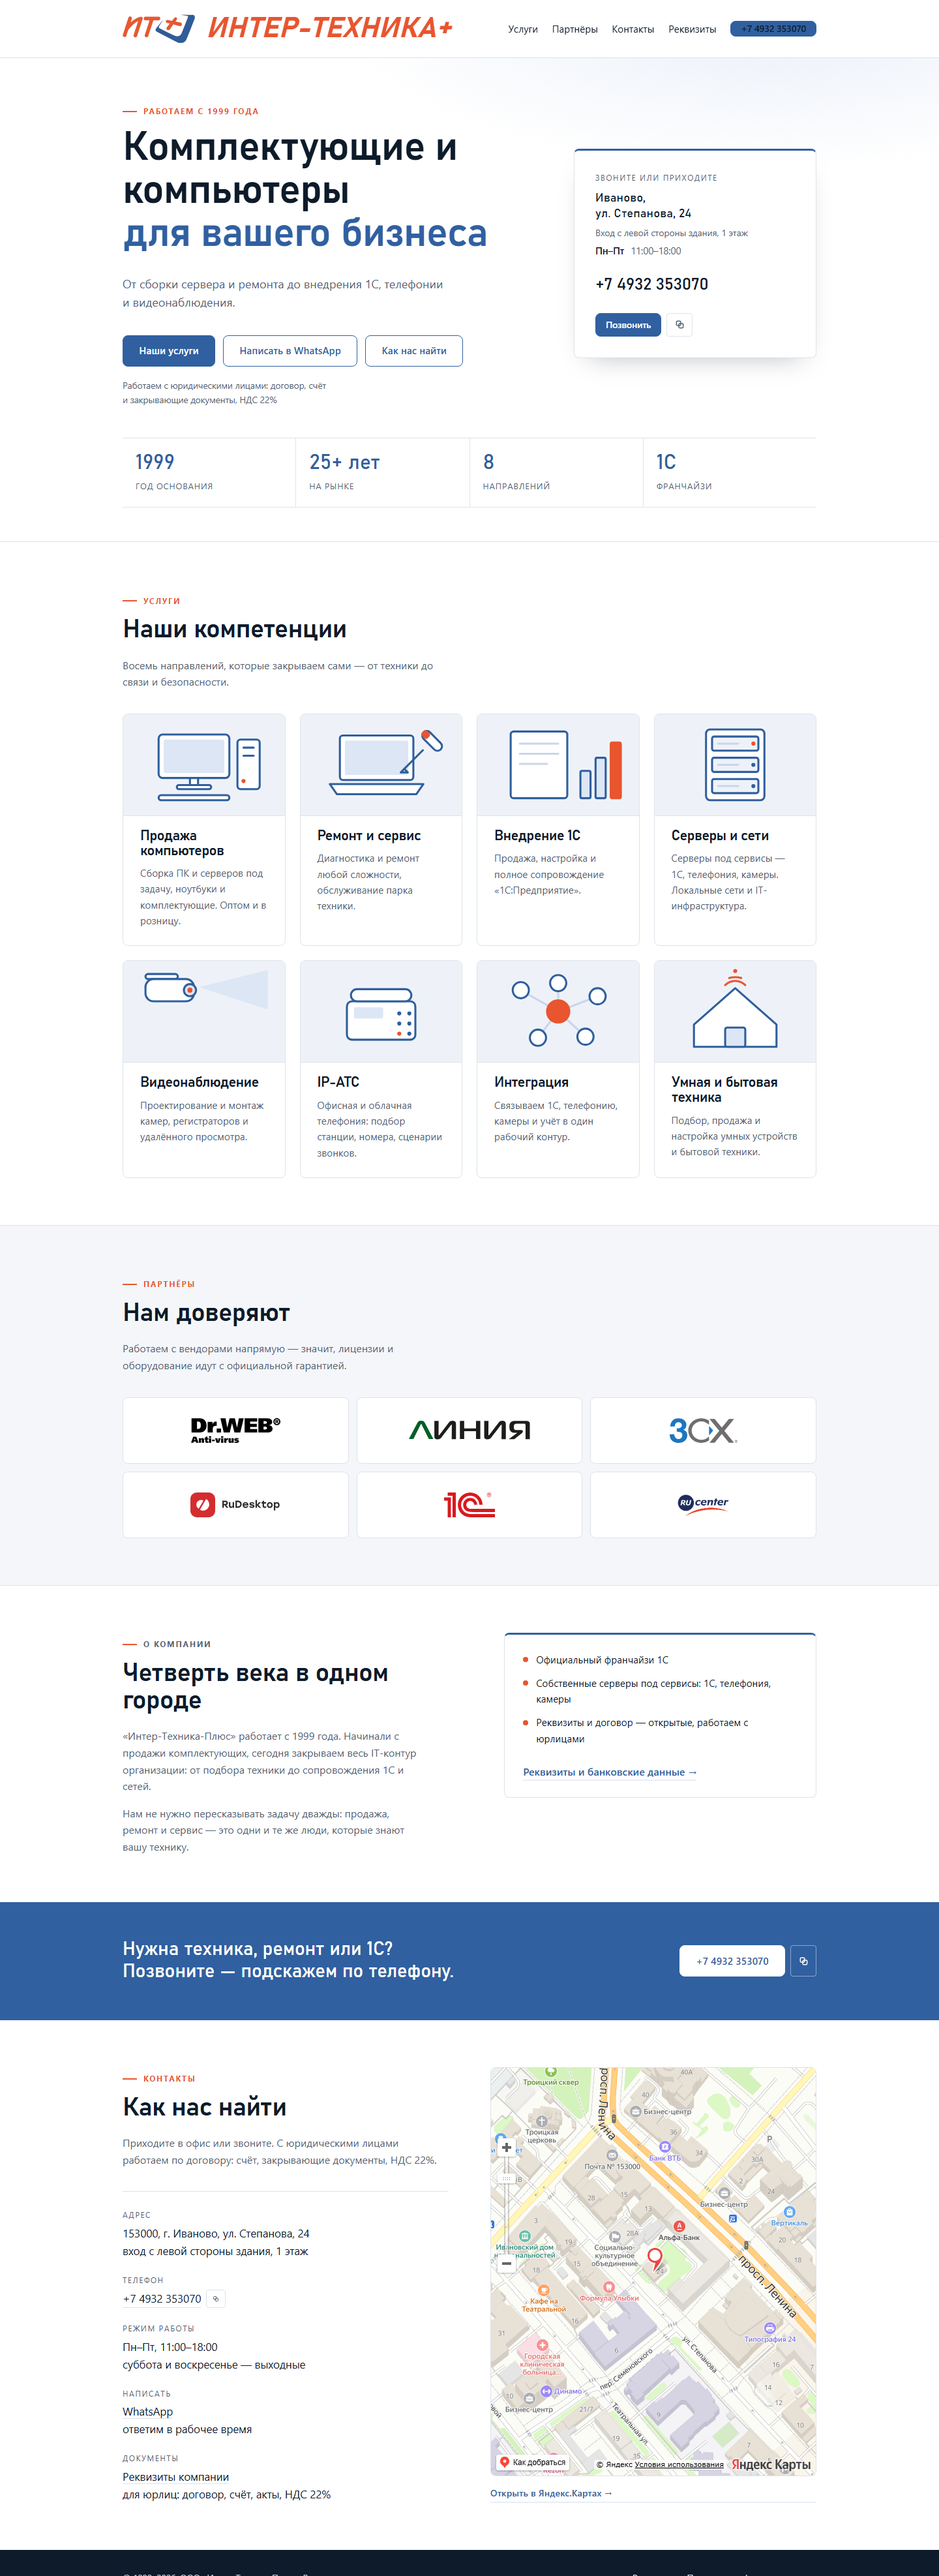
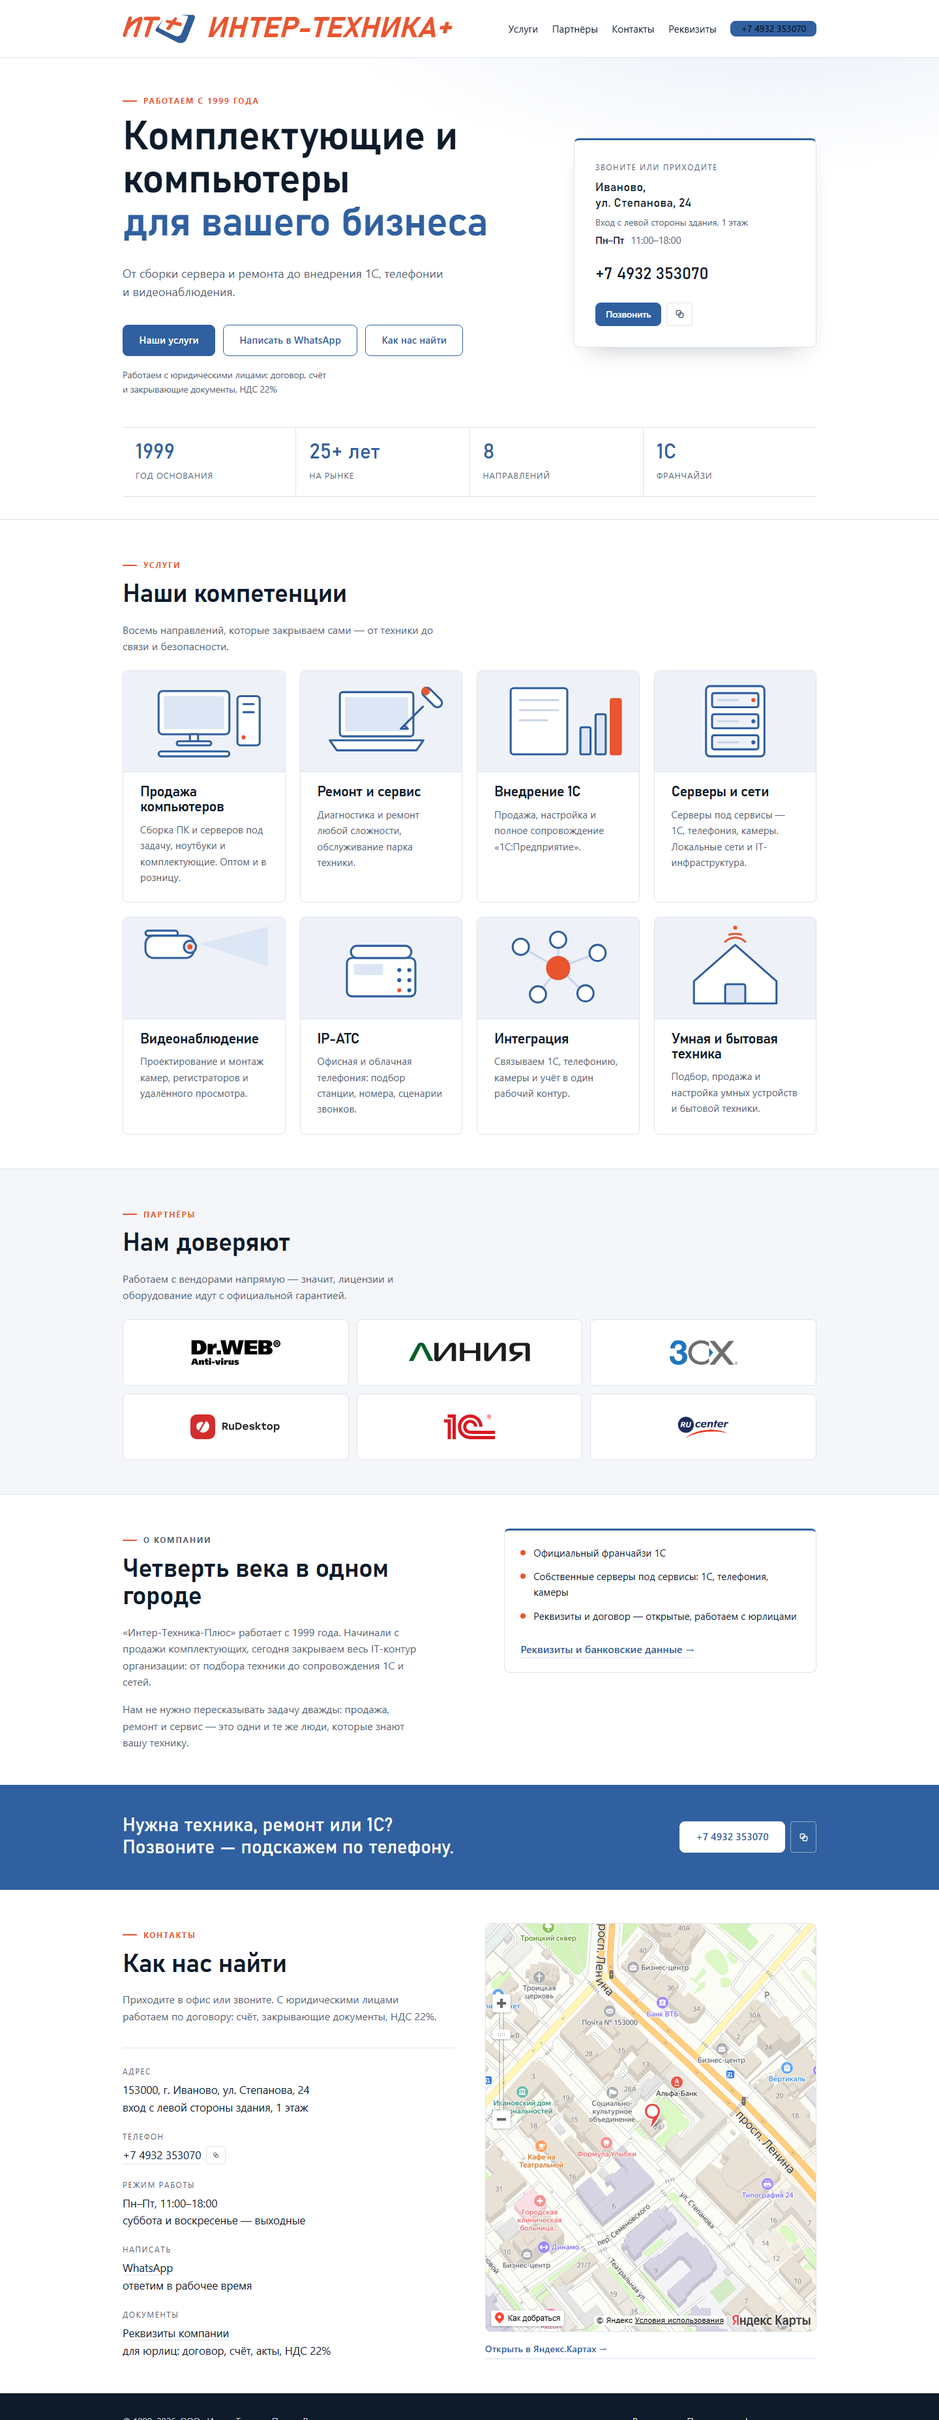
Второй этап сжатия: стыки до 52px, точечно партнёры, о компании, контакты, CTA

diff --git a/assets/style.css b/assets/style.css
@@ -239,7 +239,7 @@ p:last-child { margin-bottom: 0; }
 /* ---------- Первый экран ---------- */
 
 .hero {
-  padding-block: clamp(36px, 4.6vw, 64px) clamp(32px, 4vw, 52px);
+  padding-block: clamp(28px, 3.4vw, 48px) clamp(22px, 2.6vw, 34px);
   background:
     radial-gradient(1100px 420px at 82% -12%, var(--blue-soft) 0%, transparent 62%),
     var(--white);
@@ -379,10 +379,10 @@ p:last-child { margin-bottom: 0; }
 
 /* ---------- Секции ---------- */
 
-.section { padding-block: clamp(40px, 5.2vw, 72px); }
+.section { padding-block: clamp(28px, 3.6vw, 52px); }
 .section--alt { background: var(--paper); border-block: 1px solid var(--line); }
 
-.section-head { max-width: 60ch; margin-bottom: clamp(24px, 2.6vw, 36px); }
+.section-head { max-width: 60ch; margin-bottom: clamp(18px, 1.9vw, 24px); }
 
 .section-title {
   font-size: clamp(1.7rem, 3.2vw, 2.5rem);
@@ -494,7 +494,7 @@ p:last-child { margin-bottom: 0; }
 .about {
   display: grid;
   grid-template-columns: minmax(0, 1.15fr) minmax(0, .85fr);
-  gap: clamp(32px, 5vw, 64px);
+  gap: clamp(26px, 4vw, 48px);
   align-items: start;
 }
 
@@ -558,7 +558,7 @@ p:last-child { margin-bottom: 0; }
 .cta {
   background: var(--blue);
   color: #fff;
-  padding-block: clamp(36px, 5vw, 56px);
+  padding-block: clamp(30px, 4vw, 46px);
 }
 
 .cta-inner {
@@ -593,7 +593,7 @@ p:last-child { margin-bottom: 0; }
 .contacts {
   display: grid;
   grid-template-columns: minmax(0, 1fr) minmax(0, 1fr);
-  gap: clamp(32px, 5vw, 64px);
+  gap: clamp(26px, 4vw, 48px);
   align-items: stretch;
 }
 
@@ -891,8 +891,8 @@ p:last-child { margin-bottom: 0; }
 .partner {
   display: grid;
   place-items: center;
-  min-height: 96px;
-  padding: 18px 14px;
+  min-height: 84px;
+  padding: 14px 12px;
   background: var(--white);
   border: 1px solid var(--line);
   border-radius: var(--radius);
@@ -935,7 +935,7 @@ p:last-child { margin-bottom: 0; }
   border: 1px solid var(--line);
   border-top: 3px solid var(--blue);
   border-radius: var(--radius);
-  padding: 26px 28px;
+  padding: 22px 24px;
   background: var(--white);
 }
 .about-aside .ticks { margin-top: 0; }
@@ -1148,7 +1148,7 @@ p:last-child { margin-bottom: 0; }
 }
 
 .news-item {
-  padding: 20px 0;
+  padding: 16px 0;
   border-bottom: 1px solid var(--line);
 }
 

diff --git a/index.html b/index.html
@@ -24,7 +24,7 @@
 
   <link rel="icon" href="assets/icon.png" type="image/png">
   <link rel="apple-touch-icon" href="assets/icon.png">
-  <link rel="stylesheet" href="assets/style.css?v=20261133">
+  <link rel="stylesheet" href="assets/style.css?v=20261134">
 
   <script type="application/ld+json">
   {
@@ -74,7 +74,7 @@
   <header class="site-header">
     <div class="container header-inner">
       <a class="brand" href="#top" aria-label="Интер-Техника-Плюс — на главную">
-        <img class="brand-logo" src="assets/logo.png?v=20261133" alt="Интер-Техника-Плюс" width="112" height="44">
+        <img class="brand-logo" src="assets/logo.png?v=20261134" alt="Интер-Техника-Плюс" width="112" height="44">
         <span class="brand-name">Интер-Техника<span class="brand-plus">+</span></span>
       </a>
 
@@ -366,7 +366,7 @@
     <a class="btn btn--ghost" href="wa.html" target="_blank" rel="noopener">Написать</a>
   </div>
 
-  <script src="assets/app.js?v=20261133" defer></script>
-  <script src="assets/map.js?v=20261133" defer></script>
+  <script src="assets/app.js?v=20261134" defer></script>
+  <script src="assets/map.js?v=20261134" defer></script>
 </body>
 </html>

diff --git a/requisites.html b/requisites.html
@@ -8,13 +8,13 @@
   <link rel="canonical" href="https://ivu.ru/requisites.html">
   <link rel="icon" href="assets/icon.png" type="image/png">
   <link rel="apple-touch-icon" href="assets/icon.png">
-  <link rel="stylesheet" href="assets/style.css?v=20261133">
+  <link rel="stylesheet" href="assets/style.css?v=20261134">
 </head>
 <body>
   <header class="site-header">
     <div class="container header-inner">
       <a class="brand" href="index.html" aria-label="Интер-Техника-Плюс — на главную">
-        <img class="brand-logo" src="assets/logo.png?v=20261133" alt="Интер-Техника-Плюс" width="112" height="44">
+        <img class="brand-logo" src="assets/logo.png?v=20261134" alt="Интер-Техника-Плюс" width="112" height="44">
         <span class="brand-name">Интер-Техника<span class="brand-plus">+</span></span>
       </a>
       <button class="nav-toggle" type="button" aria-expanded="false" aria-controls="nav">
@@ -134,6 +134,6 @@
     </div>
   </footer>
 
-  <script src="assets/app.js?v=20261133" defer></script>
+  <script src="assets/app.js?v=20261134" defer></script>
 </body>
 </html>

diff --git a/privacy.html b/privacy.html
@@ -8,13 +8,13 @@
   <meta name="robots" content="noindex, follow">
   <link rel="icon" href="assets/icon.png" type="image/png">
   <link rel="apple-touch-icon" href="assets/icon.png">
-  <link rel="stylesheet" href="assets/style.css?v=20261133">
+  <link rel="stylesheet" href="assets/style.css?v=20261134">
 </head>
 <body>
   <header class="site-header">
     <div class="container header-inner">
       <a class="brand" href="index.html" aria-label="Интер-Техника-Плюс — на главную">
-        <img class="brand-logo" src="assets/logo.png?v=20261133" alt="Интер-Техника-Плюс" width="112" height="44">
+        <img class="brand-logo" src="assets/logo.png?v=20261134" alt="Интер-Техника-Плюс" width="112" height="44">
         <span class="brand-name">Интер-Техника<span class="brand-plus">+</span></span>
       </a>
       <button class="nav-toggle" type="button" aria-expanded="false" aria-controls="nav">
@@ -102,6 +102,6 @@
     </div>
   </footer>
 
-  <script src="assets/app.js?v=20261133" defer></script>
+  <script src="assets/app.js?v=20261134" defer></script>
 </body>
 </html>

diff --git a/404.html b/404.html
@@ -7,13 +7,13 @@
   <meta name="robots" content="noindex">
   <link rel="icon" href="assets/icon.png" type="image/png">
   <link rel="apple-touch-icon" href="assets/icon.png">
-  <link rel="stylesheet" href="assets/style.css?v=20261133">
+  <link rel="stylesheet" href="assets/style.css?v=20261134">
 </head>
 <body>
   <header class="site-header">
     <div class="container header-inner">
       <a class="brand" href="index.html" aria-label="Интер-Техника-Плюс — на главную">
-        <img class="brand-logo" src="assets/logo.png?v=20261133" alt="Интер-Техника-Плюс" width="112" height="44">
+        <img class="brand-logo" src="assets/logo.png?v=20261134" alt="Интер-Техника-Плюс" width="112" height="44">
         <span class="brand-name">Интер-Техника<span class="brand-plus">+</span></span>
       </a>
       <nav class="nav" aria-label="Основная навигация">
@@ -47,6 +47,6 @@
     </div>
   </footer>
 
-  <script src="assets/app.js?v=20261133" defer></script>
+  <script src="assets/app.js?v=20261134" defer></script>
 </body>
 </html>
